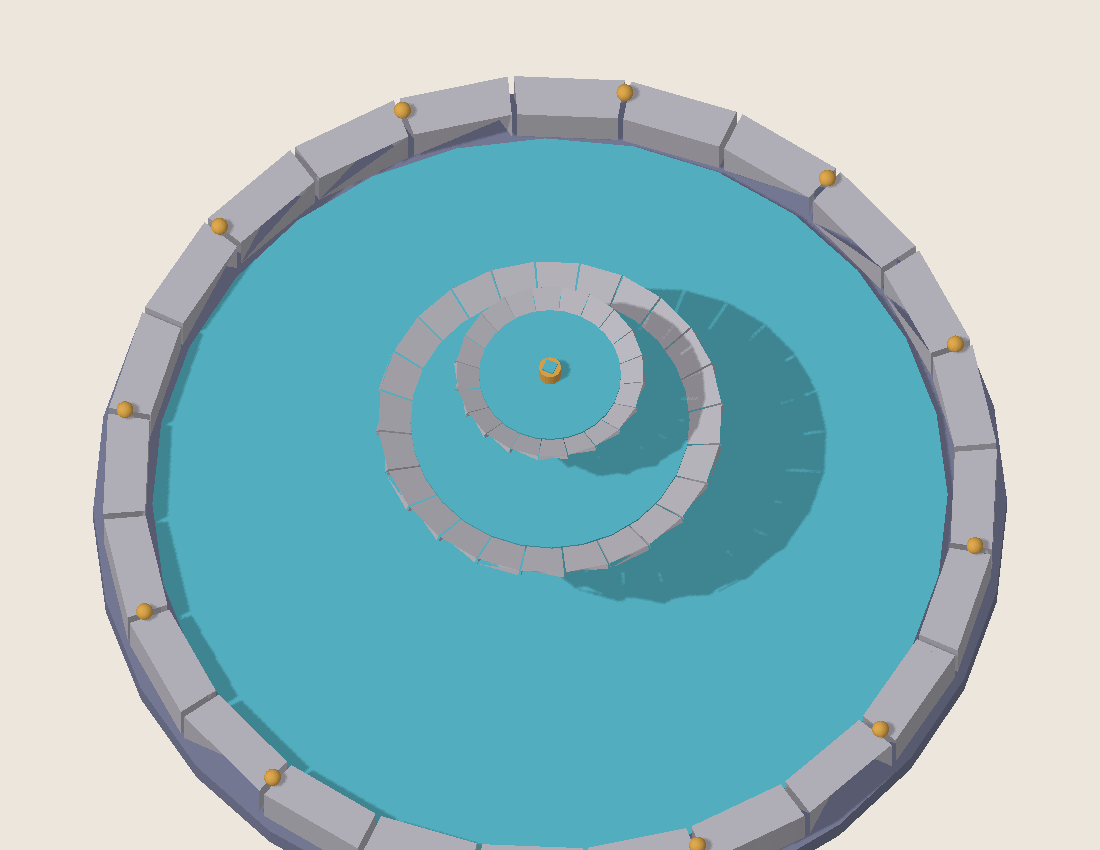
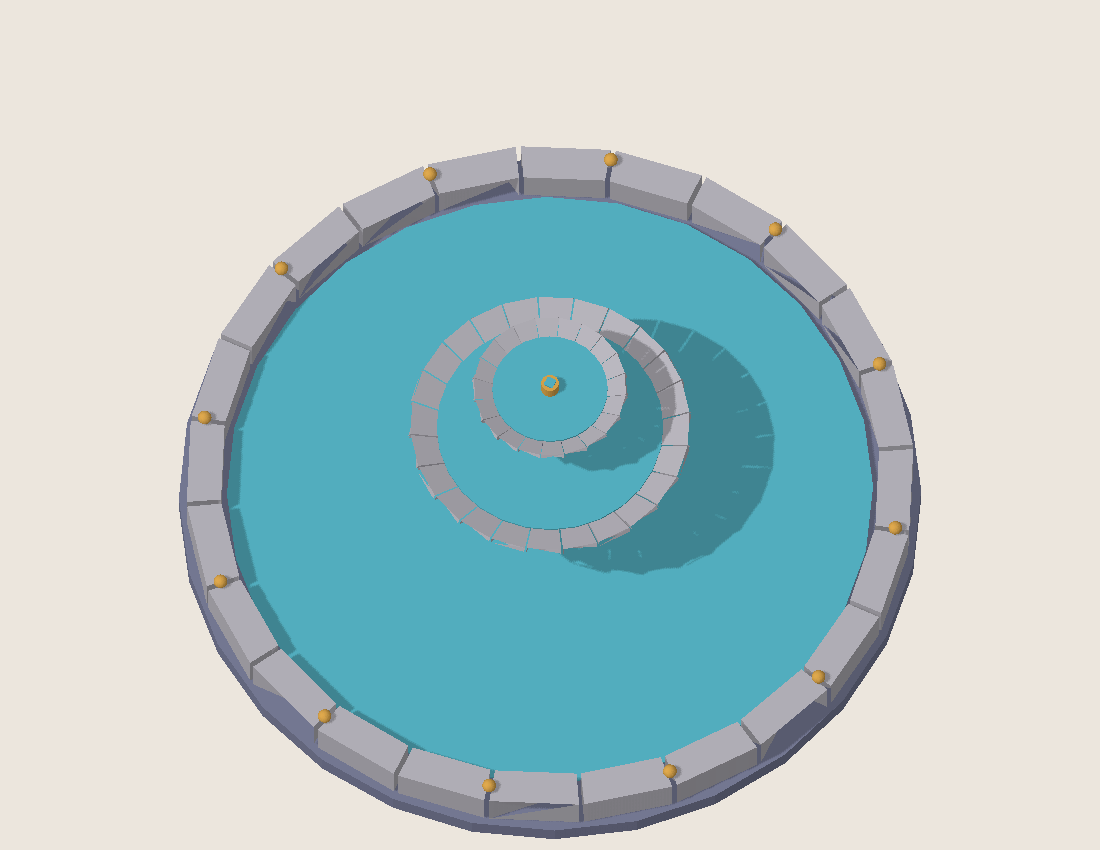
Frame top preview with full basin visible

diff --git a/docs/visual/astra-2026-11-13-v39-fountain/source/render.py b/docs/visual/astra-2026-11-13-v39-fountain/source/render.py
@@ -2,4 +2,4 @@ from build import M,ROOT
 from geometry import flatten
 from render_geometry import preview
 for name,yaw,elev in [('Front',0,18),('ThreeQuarter',35,28),('Top',25,65)]:
-    preview(flatten(M),ROOT/'previews'/('Fountain_'+name+'.png'),yaw=yaw,elev=elev,target=(0,1.8,0),span=13,W=1100,H=850)
+    preview(flatten(M),ROOT/'previews'/('Fountain_'+name+'.png'),yaw=yaw,elev=elev,target=(0,1.8,0),span=16 if name=='Top' else 13,W=1100,H=850)
